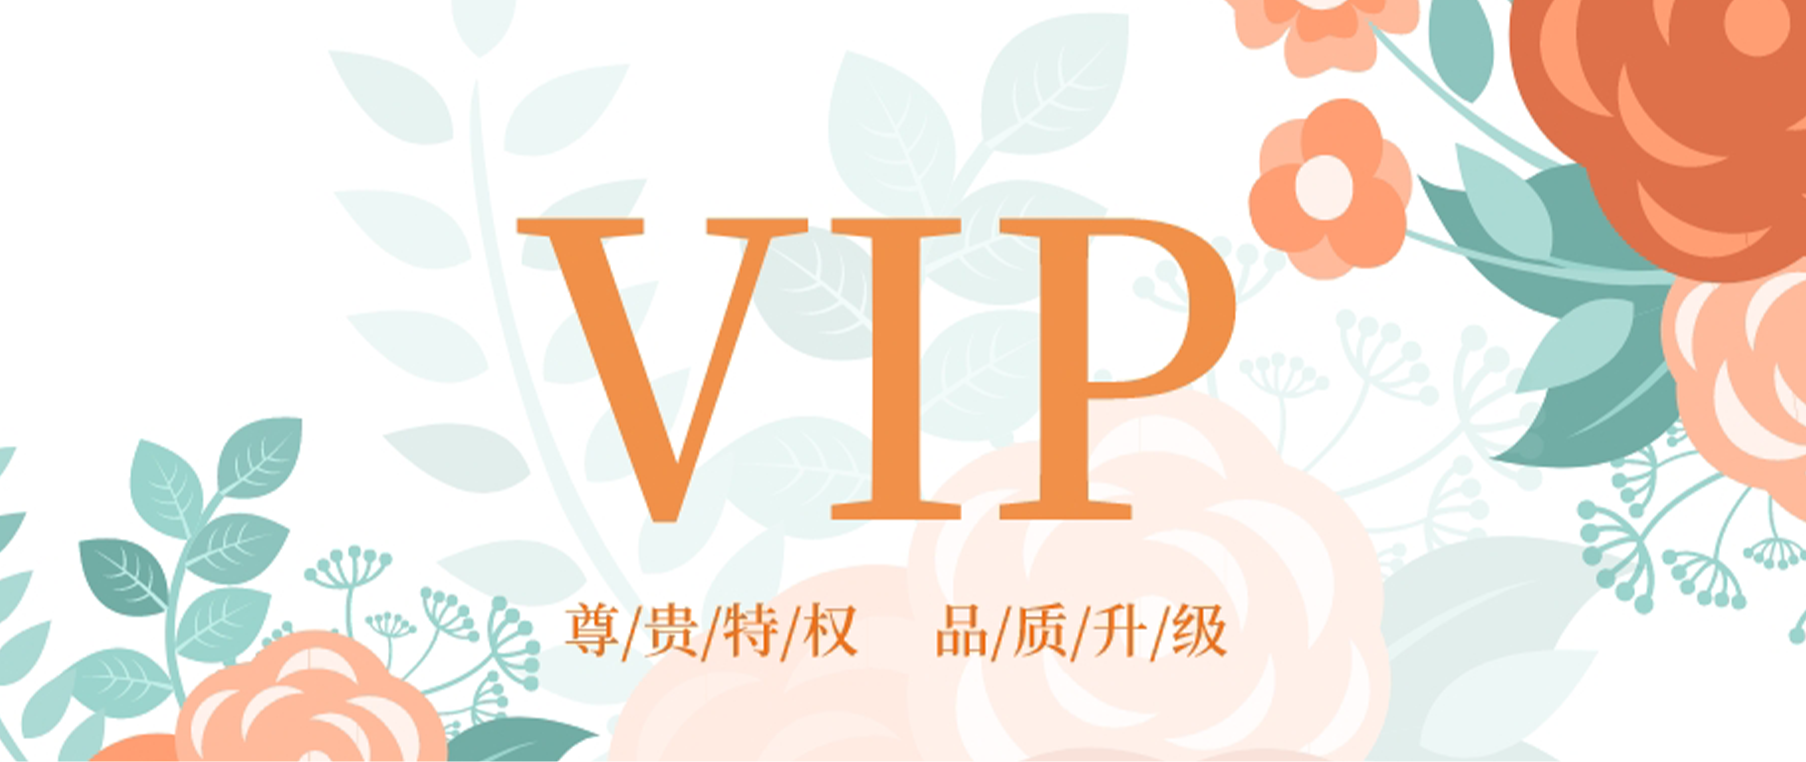
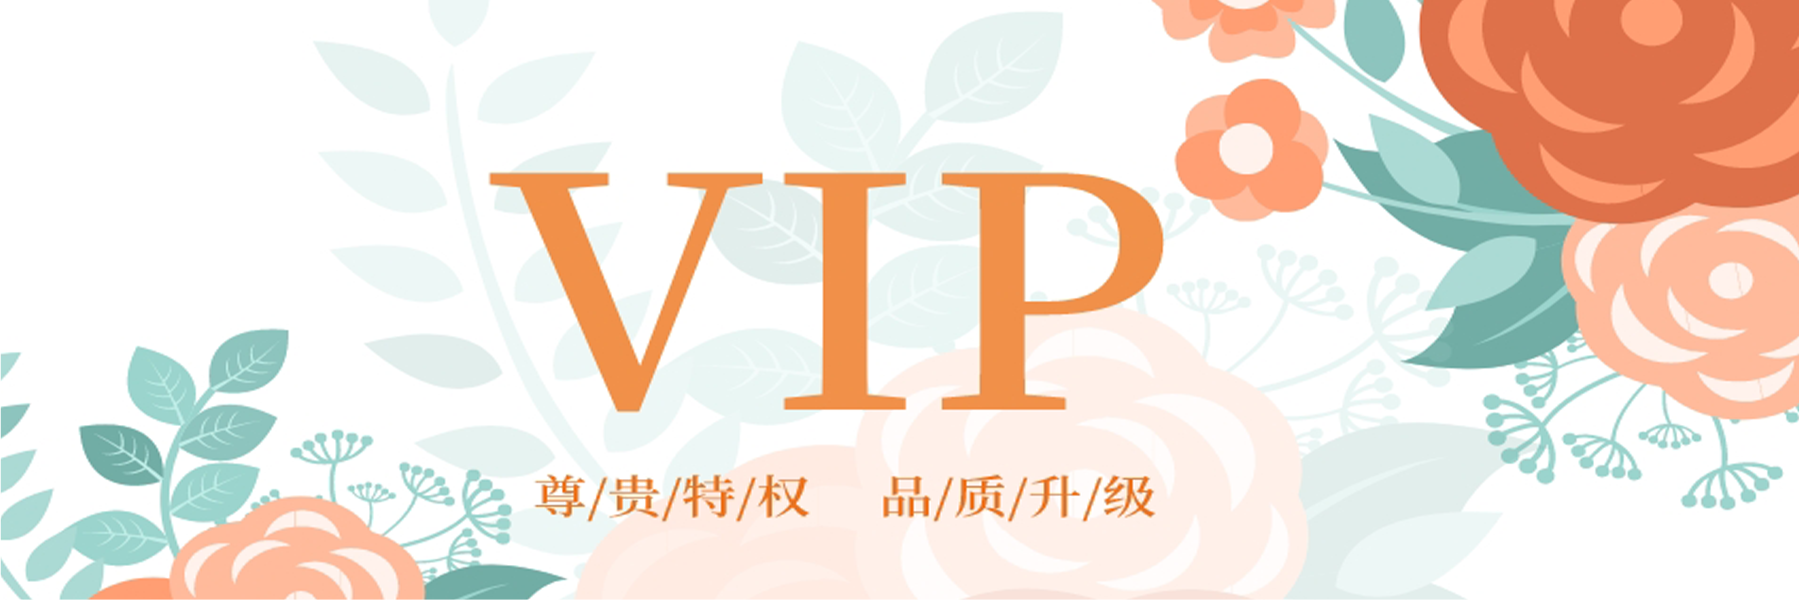
支付成功

diff --git a/src/views/PaymentSucceeded.vue b/src/views/PaymentSucceeded.vue
@@ -1,0 +1,143 @@
+<template>
+  <div class="main-paySuccess">
+    <!--顶部切换栏-->
+    <div class="tab-style">
+      <top-tab></top-tab>
+    </div>
+    <div class="paySuccess-content">
+      <div class="paySuccess-part1">基于热爱，向往浪漫，花是期待的最好见证者</div>
+      <div class="paySuccess-part2">
+        <div class="paySuccess-part2-text1">订单已完成</div>
+        <div class="paySuccess-part2-text2">支付成功，订单已完成</div>
+      </div>
+      <div class="paySuccess-part3">
+        <div class="part3-bg">
+          <div class="part3-item" v-for="item in flowPathList" :key="item.id" >
+            <div class="part3-item-content">
+              <div class="part3-item-number">{{item.id}}</div>
+              <div style="margin-top: 10px">{{item.name}}</div>
+              <div class="part3-item-line"></div>
+            </div>
+          </div>
+        </div>
+
+      </div>
+    </div>
+    <!--底部-->
+    <div class="bottom-info">
+      <bottom-info></bottom-info>
+    </div>
+  </div>
+</template>
+
+<script>
+import TopTab from "../components/topTab";
+import BottomInfo from "../components/bottom-info";
+
+export default {
+  name: "PaymentSucceeded",
+  components: {BottomInfo, TopTab},
+  data(){
+    return {
+      flowPathList: [
+        {
+          id: '01',
+          name: '购物车'
+        },
+        {
+          id: '02',
+          name: '发货'
+        },
+        {
+          id: '03',
+          name: '订单已完成'
+        },
+      ],
+    };
+  }
+};
+</script>
+
+<style scoped lang="scss">
+.main-paySuccess {
+  width: 100%;
+  height: 100%
+}
+.tab-style{
+  background: rgba(252, 233, 234, 0.3);
+  width: 100%;
+}
+.paySuccess-content{
+  width: 75%;
+  margin: auto;
+}
+.paySuccess-part1{
+  font-size: 18px;
+  text-align: center;
+  padding: 20px 0;
+}
+.paySuccess-part2{
+  background: black;
+  display: flex;
+  flex-direction: column;
+  align-items: center;
+  justify-content: center;
+  padding: 40px 0;
+}
+.paySuccess-part2-text1{
+  font-size: 24px;
+  color: #ffffff;
+}
+.paySuccess-part2-text2{
+  font-size: 16px;
+  color: #ffffff;
+  margin-top: 10px;
+}
+.bottom-info{
+  width: 100%;
+  margin-top: 30px;
+  background: #f3f3f3;
+}
+.paySuccess-part3{
+  display: flex;
+  flex-direction: row;
+  justify-content: center;
+  align-items: center;
+}
+.part3-bg{
+  width: 100%;
+  padding: 30px 100px;
+  display: flex;
+  justify-content: space-between;
+}
+.part3-item{
+  width: 200px;
+  height: 200px;
+  border: 1px solid #ececec;
+  display: flex;
+  align-items: center;
+  justify-content: center;
+}
+.part3-item-content{
+  display: flex;
+  flex-direction: column;
+  text-align: center;
+  justify-content: center;
+  align-items: center;
+}
+.part3-item-number{
+  width: 50px;
+  height: 50px;
+  border-radius: 50px;
+  background: #5fae5f;
+  line-height: 50px;
+  color: #ffffff;
+}
+.part3-item-line{
+  width: 40px;
+  height: 1px;
+  background: #88b940;
+  text-align: center;
+  margin-top: 10px;
+}
+</style>

diff --git a/src/views/Home.vue b/src/views/Home.vue
@@ -1,9 +1,10 @@
 <template>
   <div class="main-home">
-    <div style="width: 100%;">
       <!--顶部切换栏-->
-      <top-tab></top-tab>
-<!--      <div style="width: 70%;margin: auto">-->
+      <div class="tab-style">
+        <top-tab></top-tab>
+      </div>
+      <div class="home-content">
         <!--滚动-->
         <el-carousel height="300px">
           <el-carousel-item v-for="item in 4" :key="item">
@@ -61,7 +62,7 @@
             <img src="../assets/home-part5/part4img4.jpg">
           </div>
         </div>
-<!--      </div>-->
+      </div>
 
     <!--底部-->
       <div class="bottom-info">
@@ -69,7 +70,6 @@
       </div>
 
     </div>
-  </div>
 </template>
 
 <script>
@@ -93,6 +93,14 @@ export default {
 .main-home {
   width: 100%;
   height: 100%
+}
+.tab-style{
+  background: rgba(252, 233, 234, 0.3);
+  width: 100%;
+}
+.home-content{
+  width: 75%;
+  margin: auto;
 }
 .home-part3{
   padding: 20px 0;

diff --git a/src/components/topTab.vue b/src/components/topTab.vue
@@ -30,17 +30,18 @@ export default {
 
 <style scoped lang="scss">
 .tab-bg{
+  width: 75%;
+  margin: auto;
   display: flex;
   justify-content: space-between;
   align-items: center;
   height: 60px;
-  background: rgba(252, 233, 234, 0.4);
   z-index: 9999;
 }
 .tab-left{
   display: flex;
   align-items: center;
-  margin-left: 20px;
+  //margin-left: 20px;
 }
 .tab-text-green{
   cursor: pointer;
@@ -59,7 +60,7 @@ export default {
   margin-left: 20px;
 }
 .tab-right{
-  margin-right: 40px;
+  //margin-right: 40px;
 }
 .tab-right span{
   margin-left: 8px;

diff --git a/src/views/Vip.vue b/src/views/Vip.vue
@@ -1,7 +1,9 @@
 <template>
   <div class="main-vip">
     <!--顶部切换栏-->
-    <top-tab></top-tab>
+    <div class="tab-style">
+      <top-tab></top-tab>
+    </div>
     <div class="vip-content">
       <img src="../assets/vip/banner.png" style="width: 100%;height: 300px">
       <!--会员活动-->
@@ -82,8 +84,12 @@ export default {
   width: 100%;
   height: 100%
 }
+.tab-style{
+  background: rgba(252, 233, 234, 0.3);
+  width: 100%;
+}
 .vip-content{
-  width: 70%;
+  width: 75%;
   margin: auto;
 }
 .vip-part2{

diff --git a/src/router/index.js b/src/router/index.js
@@ -8,6 +8,8 @@ const routes = [
   { path: '/Home', name: 'Home', component: () => import('../views/Home.vue'), },
   // eslint-disable-next-line import/extensions
   { path: '/Vip', name: 'Vip', component: () => import('../views/Vip.vue'), },
+  // eslint-disable-next-line import/extensions
+  { path: '/PaymentSucceeded', name: 'PaymentSucceeded', component: () => import('../views/PaymentSucceeded.vue'), },
   { path: '*', redirect: '/Home' },
 ];
 

diff --git a/src/components/bottom-info.vue b/src/components/bottom-info.vue
@@ -64,9 +64,10 @@ export default {
 .bottom{
   height: 200px;
   padding: 20px 60px;
-  width: 60%;
+  width: 75%;
   margin: auto;
   display: flex;
+  justify-content: space-between;
 }
 .about-us{
   display: flex;
